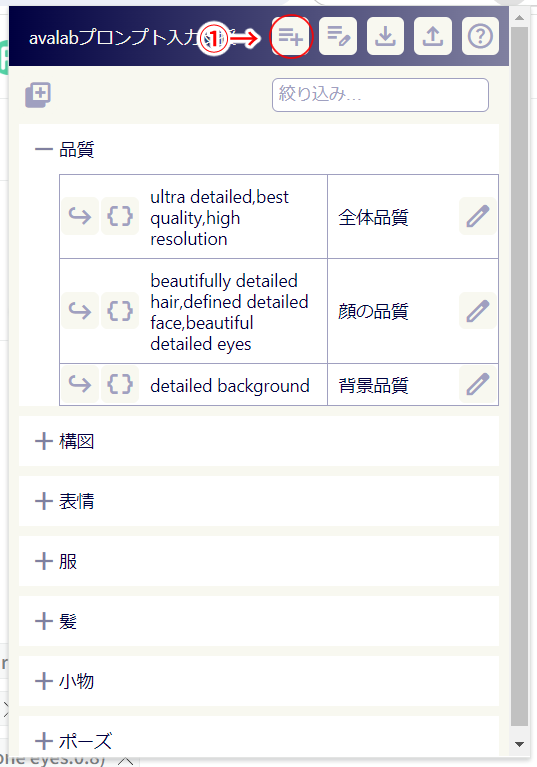
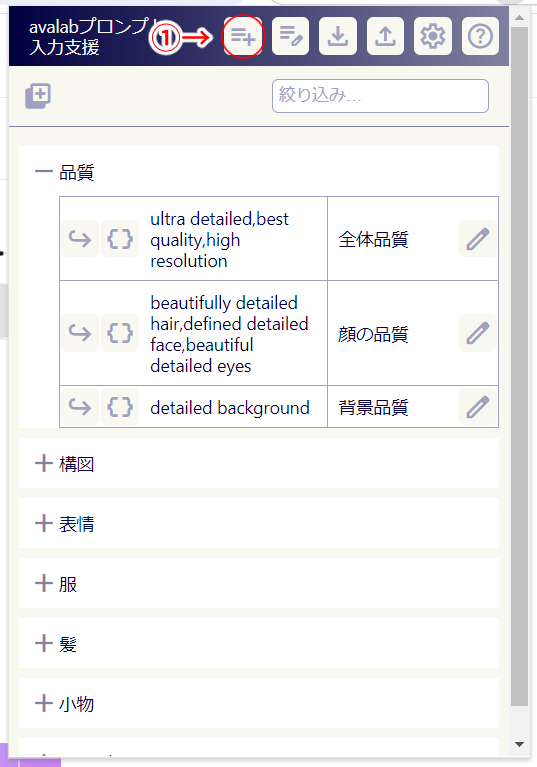
docsの画像の追加と差し替え GitHub Pagesで見出しへのリンクが機能するよう、見出しを修正 オプション設定についての説明を追加 更新履歴にv1.2の更新内容を追加

diff --git a/docs/index.md b/docs/index.md
@@ -2,20 +2,20 @@
 
 このツールは[Avalab.ai](https://avalab.ai)でのプロンプト入力を支援するための、Chrome拡張機能です。
 
-## インストール
+## install / インストール
 
 [Chromeウェブストア](https://chromewebstore.google.com/detail/avalabai%E3%83%97%E3%83%AD%E3%83%B3%E3%83%97%E3%83%88%E5%85%A5%E5%8A%9B%E6%94%AF%E6%8F%B4%E3%83%84%E3%83%BC%E3%83%AB/okhnpkdkjhoehaiimadniembjdikncpa)からインストールしてください。
 
-## 使い方
+## usage / 使い方
 
-### プロンプトの挿入
+### apply / プロンプトの挿入
 
 ![プロンプト挿入](images/010_apply_01.png)
 
 - ①のアイコンをクリックすると、avalabにプロンプトを追加できます。
 - ②のアイコンをクリックした場合、avalabのプロンプト入力欄に、`()`を付与した状態のプロンプトを入力します。必要があれば係数を調整して、avalabで「追加」操作を行ってください。
 
-### プロンプトの追加
+### new prompt / プロンプトの追加
 
 ![プロンプト追加](images/020_new_01.png)
 
@@ -25,7 +25,7 @@
 
 - カテゴリ（必須）、プロンプト（必須）、備考（任意）を入力してください。
 
-### プロンプト編集
+### edit prompt / プロンプト編集
 
 ![プロンプト編集](images/030_edit_01.png)
 
@@ -36,7 +36,7 @@
 - カテゴリ、プロンプト、備考を編集できます。
 - 右下のゴミ箱アイコンをクリックするとプロンプトを削除できます。
 
-### カテゴリ編集
+### edit category / カテゴリ編集
 
 ![カテゴリ編集](images/040_category_01.png)
 
@@ -48,7 +48,7 @@
 
 **注意：カテゴリを削除すると、カテゴリ内のプロンプトは「未分類」というカテゴリに自動的に移動します。**
 
-### インポート/エクスポート
+### import export / インポート/エクスポート
 
 ![インポート/エクスポート](images/050_import_01.png)
 
@@ -60,8 +60,25 @@
 
 **注意：インポートを行った場合、インポート前に設定されていたプロンプト情報はすべて削除されます。**
 
-## 更新履歴
+### options / オプション設定
+![オプション設定](images/060_option_01.png)
+- ①のアイコンをクリックすると、オプション設定の画面が開きます。
 
+![オプション設定画面](images/060_option_02.png)
+
+#### Avalab.aiのプロンプト入力候補を表示しない
+Avalabのプロンプト入力テキストボックスの下に、プロンプト入力候補が表示されないように制御します。
+![プロンプト入力候補](images/060_option_11.png)
+
+#### サイドパネルモードで使用する
+拡張機能のアイコンをクリックした際に、拡張機能のポップアップではなくサイドパネルにプロンプト一覧を表示するモードにします。
+![サイドパネル](images/060_option_21.png)
+
+## history / 更新履歴
+- v1.2
+  - サイドパネルモードを実装
+  - Avalab側のプロンプト入力候補表示を抑止する機能を追加
+  - avalab.ai/からavalab.ai/generateに遷移した場合に自動入力が動作しない問題を修正
 - v1.1
   - プロンプト作成/編集時にカテゴリを設定できるよう修正
   - ツール情報のダイアログを追加
@@ -75,7 +92,7 @@
 
 [本ソフトウェアが使用している外部ライブラリなどのライセンス](thirdPartyNotice.md)
 
-## 連絡先（バグ報告/要望など）
+## contact / 連絡先（バグ報告/要望など）
 
 以下のDiscordチャンネルをご利用ください。  
 [兎摩の遊び場 - とまのツールのバグとか要望とか](https://discord.gg/QEyhHjMyKS)
